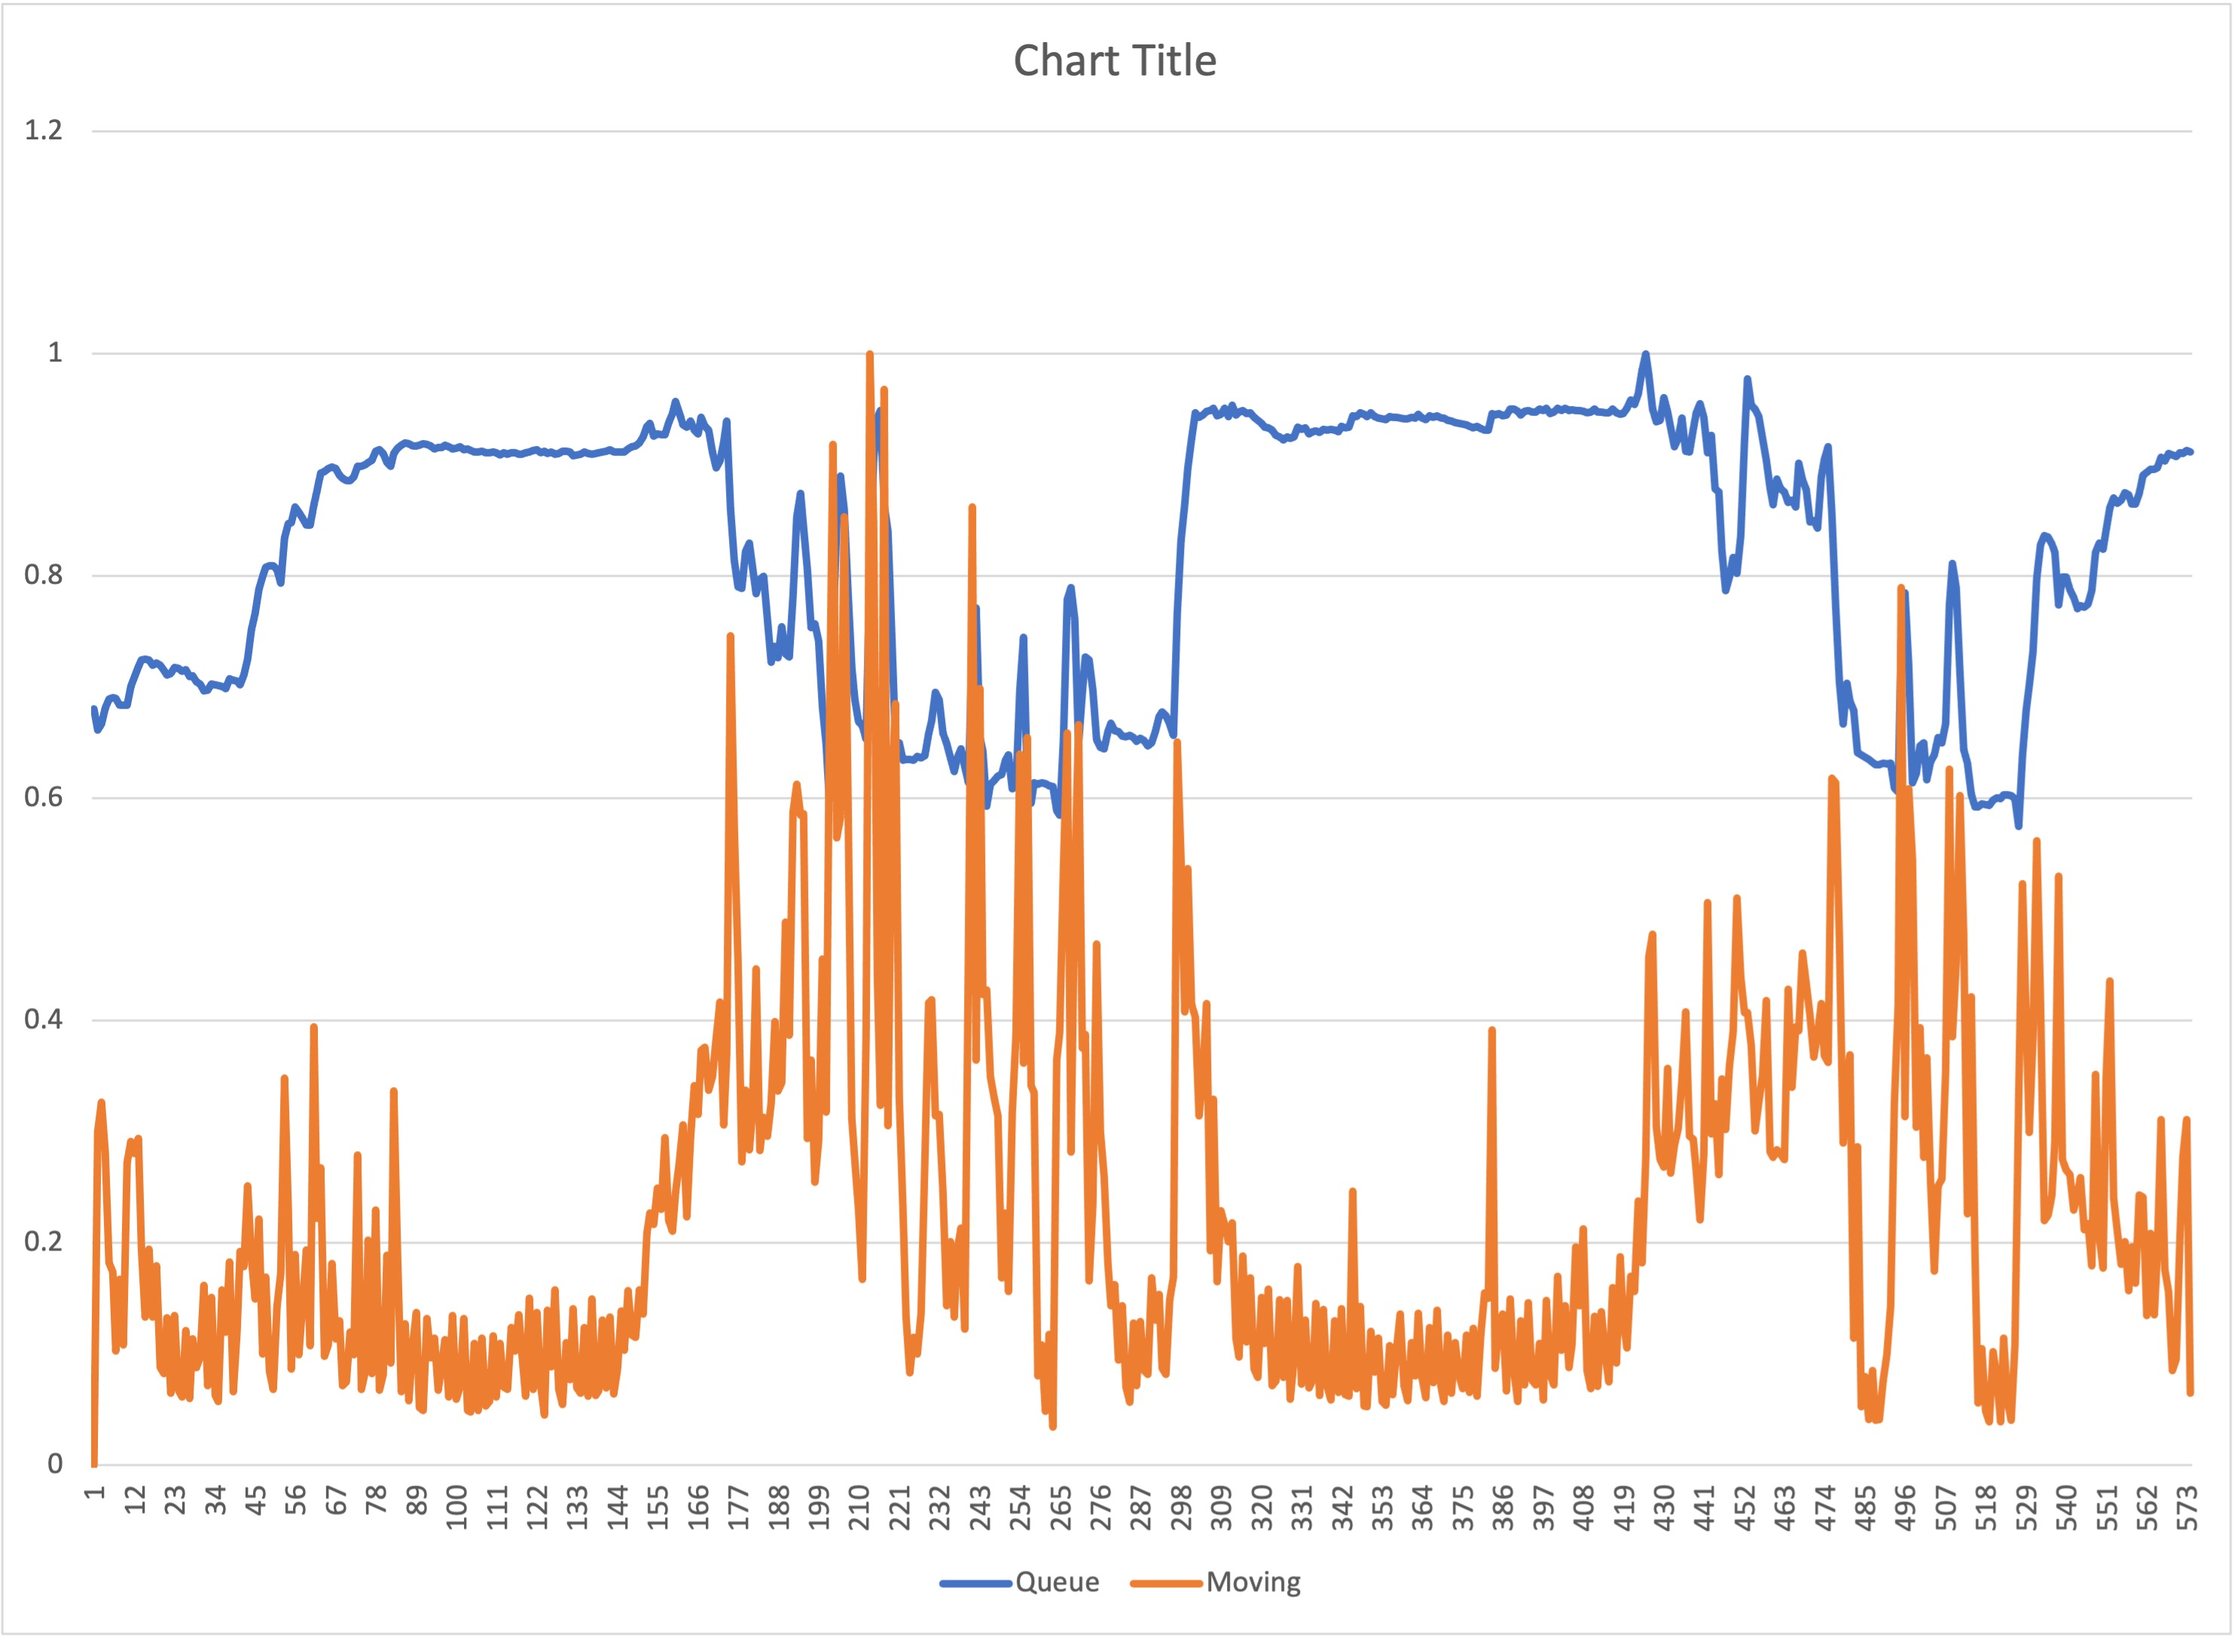
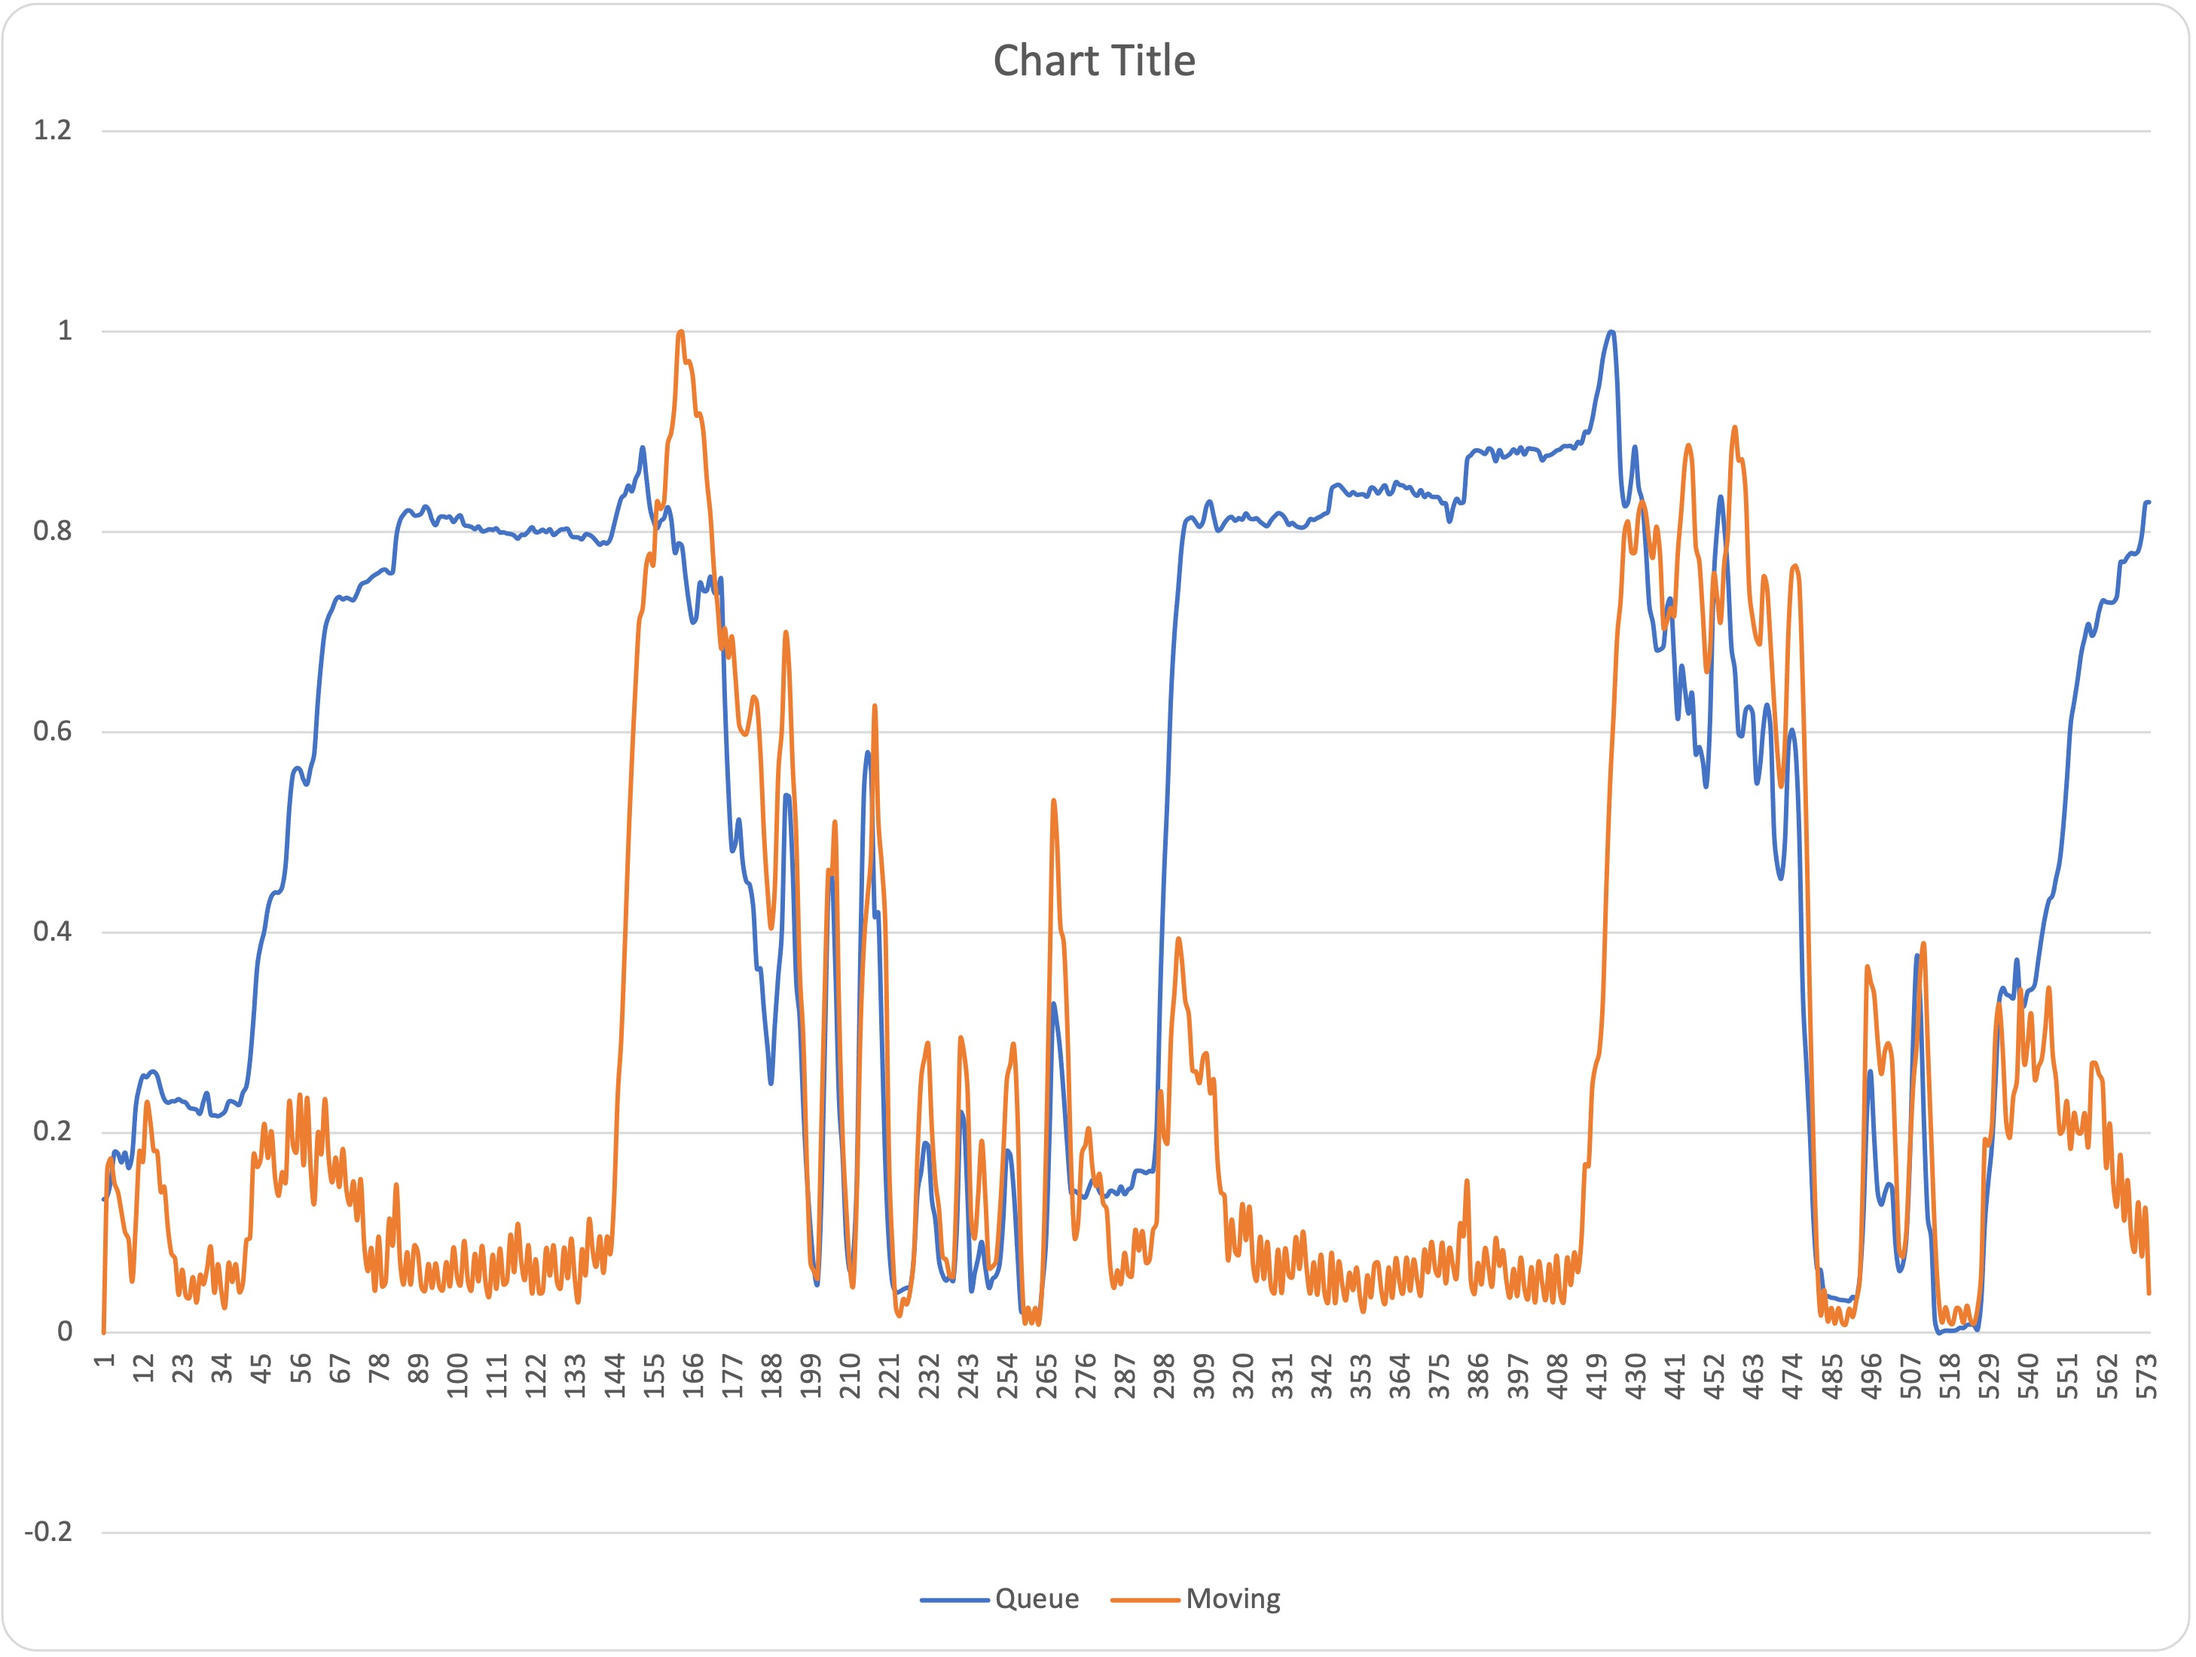
updates

diff --git a/program1.cpp b/program1.cpp
@@ -45,19 +45,30 @@ Mat processImage(Mat frame) {
 }
 
 double calcDiff(Mat img1, Mat img2) {
-    Mat gray1, gray2;
+    // Mat gray1, gray2;
+    // cvtColor(img1, gray1, COLOR_BGR2GRAY);
+    // cvtColor(img2, gray2, COLOR_BGR2GRAY);
+    // int histSize = 256;
+    // float range[] = { 0, 256} ;
+    // const float* histRange = { range };
+    // bool uniform = true;
+    // bool accumulate = false;
+    // int channels[] = {0};
+    // Mat h1,h2;
+    // calcHist(&gray1, 1, channels, Mat(), h1, 1, &histSize, &histRange, uniform, accumulate);
+    // calcHist(&gray2, 1, channels, Mat(), h2, 1, &histSize, &histRange, uniform, accumulate);
+    // return compareHist(h1, h2, HISTCMP_BHATTACHARYYA);
+
+    // Mat delta, gray;
+    // absdiff(img1, img2, delta);
+    // cvtColor(delta, gray, COLOR_BGR2GRAY);
+    // return sum(gray)[0];
+
+    Mat gray1, gray2, delta;
     cvtColor(img1, gray1, COLOR_BGR2GRAY);
     cvtColor(img2, gray2, COLOR_BGR2GRAY);
-    int histSize = 256;
-    float range[] = { 0, 256} ;
-    const float* histRange = { range };
-    bool uniform = true;
-    bool accumulate = false;
-    int channels[] = {0};
-    Mat h1,h2;
-    calcHist(&gray1, 1, channels, Mat(), h1, 1, &histSize, &histRange, uniform, accumulate);
-    calcHist(&gray2, 1, channels, Mat(), h2, 1, &histSize, &histRange, uniform, accumulate);
-    return compareHist(h1, h2, HISTCMP_BHATTACHARYYA);
+    absdiff(gray1, gray2, delta);
+    return sum(delta)[0];
 }
 
 void printData(vector<double> &queue, vector<double> &dynamic) {
